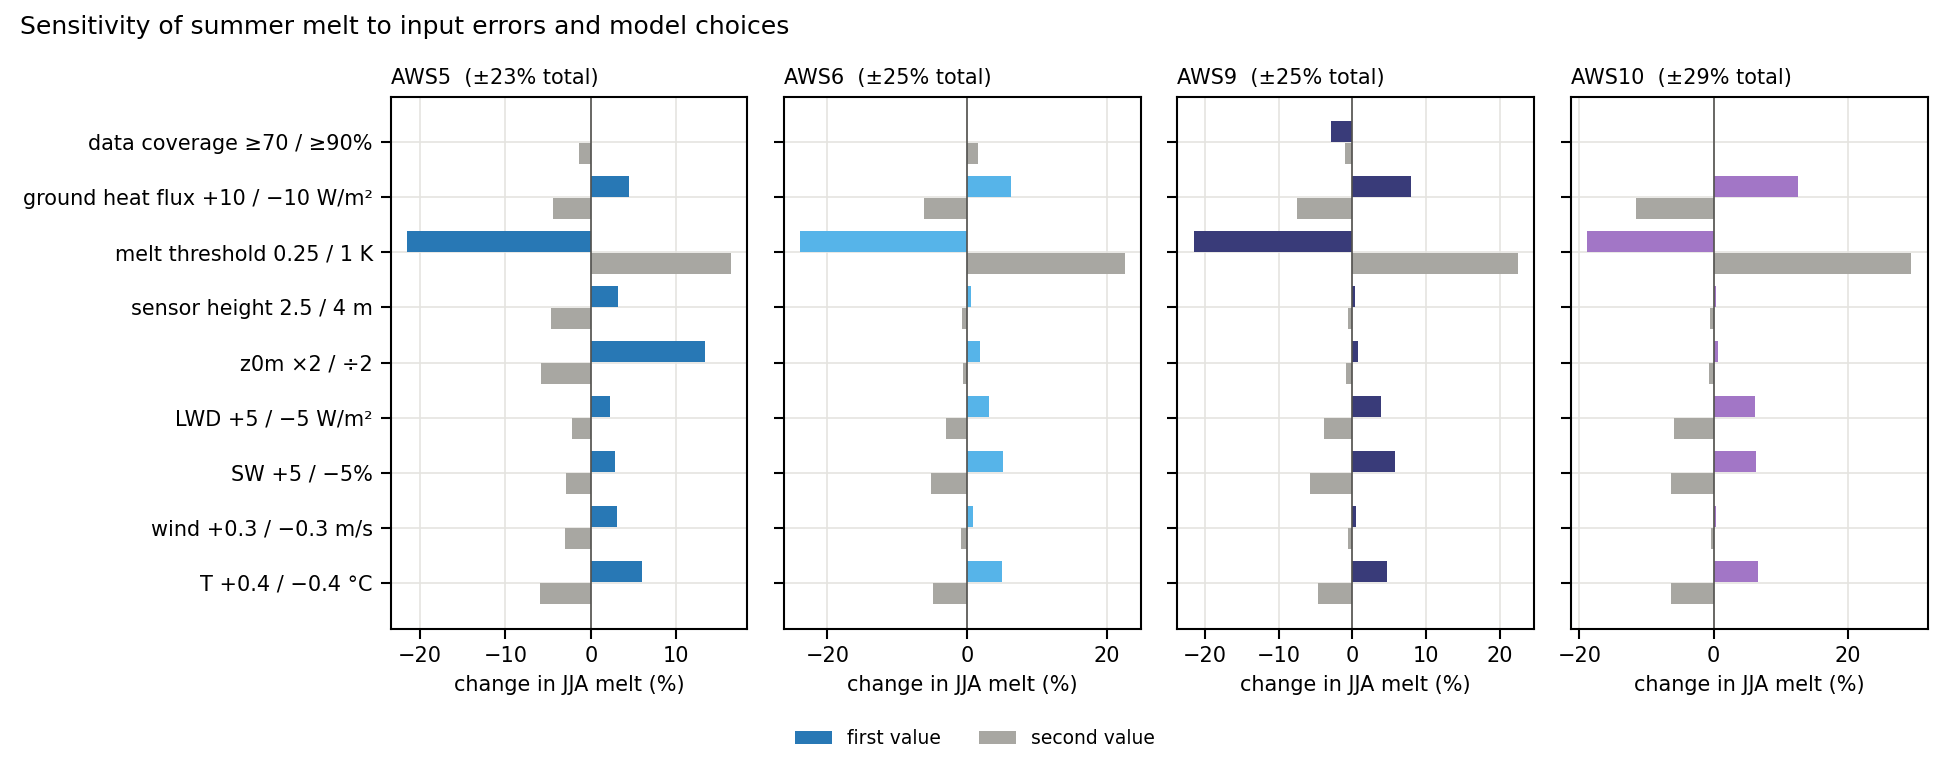
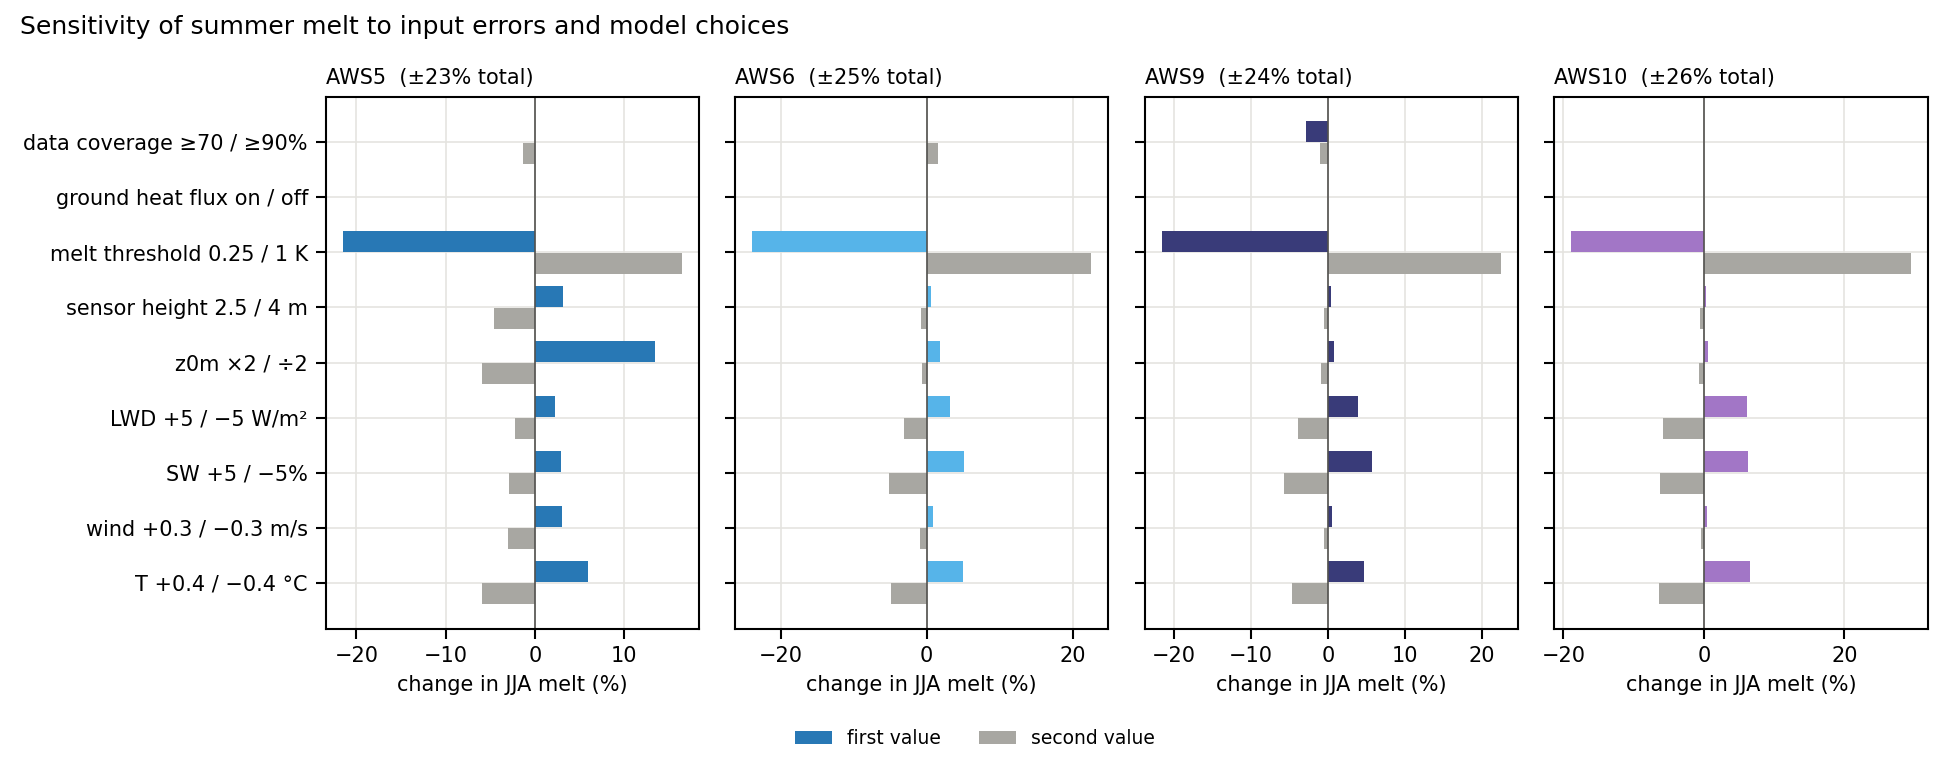
changes to uncertainty with the ground heat flux

diff --git a/code/uncertainty.py b/code/uncertainty.py
@@ -32,6 +32,7 @@ from scipy import stats
 
 import melt_comparison as mc
 import elevation_albedo as ea
+import surface_temperature as stm
 
 JJA = [6, 7, 8]
 JJA_HOURS = 92 * 24
@@ -46,7 +47,7 @@ SENSITIVITY = {
     "z0m ×2 / ÷2": "onzekerheid ruwheid (factor 2)",
     "meethoogte 2.5 / 4 m": "onbekende sensorhoogte type 0 (standaard 3 m)",
     "smeltdrempel 0.25 / 1 K": "drempel oppervlaktetemperatuur (standaard 0.5 K)",
-    "G +10 / −10 W/m²": "warmtestroom in het ijs, standaard 0 (aanname; orde van grootte uit paper fig. 4)",
+    "G on / off": "ground heat flux: full model (coupled subsurface model) vs. G = 0",
     "datadekking 70 / 90%": "minimale dekking voor een zomer om mee te tellen (standaard 80%)",
 }
 
@@ -102,8 +103,8 @@ def jja_melt(ts):
     return g.mean() * JJA_HOURS, cov
 
 
-def run(station, df, z0_factor=1.0, z_default=None, t_tol=None, g_flux=None):
-    orig = (mc.z0m_series, mc.Z_DEFAULT, mc.T_MELT_TOL, mc.GROUND_FLUX)
+def run(station, df, z0_factor=1.0, z_default=None, t_tol=None):
+    orig = (mc.z0m_series, mc.Z_DEFAULT, mc.T_MELT_TOL)
     try:
         if z0_factor != 1.0:
             mc.z0m_series = lambda st, idx: orig[0](st, idx) * z0_factor
@@ -111,11 +112,25 @@ def run(station, df, z0_factor=1.0, z_default=None, t_tol=None, g_flux=None):
             mc.Z_DEFAULT = z_default
         if t_tol is not None:
             mc.T_MELT_TOL = t_tol
-        if g_flux is not None:
-            mc.GROUND_FLUX = g_flux
         return jja_melt(mc.melt_aws(station, df))[0]
     finally:
-        mc.z0m_series, mc.Z_DEFAULT, mc.T_MELT_TOL, mc.GROUND_FLUX = orig
+        mc.z0m_series, mc.Z_DEFAULT, mc.T_MELT_TOL = orig
+
+
+def run_coupled(station, df, ground=True):
+    """JJA-smelt met het gekoppelde Ts/G-model (ook als de rest met de drempelmethode draait).
+
+    Met ground=False wordt het ondergrondmodel niet gekoppeld, dus G = 0.
+    """
+    orig = (mc.MELT_METHOD, stm.N_G_ITER)
+    try:
+        mc.MELT_METHOD = "seb_ts"
+        if not ground:
+            stm.N_G_ITER = 0
+        # volledig model uit de cache; zonder G met df meegeven, anders komt de cache terug
+        return jja_melt(mc.melt_aws(station, None if ground else df))[0]
+    finally:
+        mc.MELT_METHOD, stm.N_G_ITER = orig
 
 
 def sensitivity(station):
@@ -139,8 +154,10 @@ def sensitivity(station):
         "z0m ×2 / ÷2": (run(station, df, z0_factor=2.0), run(station, df, z0_factor=0.5)),
         "meethoogte 2.5 / 4 m": (run(station, df, z_default=2.5), run(station, df, z_default=4.0)),
         "smeltdrempel 0.25 / 1 K": (run(station, df, t_tol=0.25), run(station, df, t_tol=1.0)),
-        "G +10 / −10 W/m²": (run(station, df, g_flux=10.0), run(station, df, g_flux=-10.0)),
     }
+    # G: verschil tussen gekoppeld model met en zonder G, opgeteld bij de basis
+    full = run_coupled(station, df)
+    runs["G on / off"] = (base_all, base_all + run_coupled(station, df, ground=False) - full)
     rows = []
     for name, (up, down) in runs.items():
         up, down = up.reindex(years), down.reindex(years)
@@ -299,7 +316,7 @@ def plot_sensitivity(sens, summary, out):
         ax.axvline(0, color="#52514e", lw=0.8)
         ax.set_yticks(y, ["T +0.4 / −0.4 °C", "wind +0.3 / −0.3 m/s", "SW +5 / −5%", "LWD +5 / −5 W/m²",
                           "z0m ×2 / ÷2", "sensor height 2.5 / 4 m", "melt threshold 0.25 / 1 K",
-                          "ground heat flux +10 / −10 W/m²", "data coverage ≥70 / ≥90%"])
+                          "ground heat flux on / off", "data coverage ≥70 / ≥90%"])
         ax.invert_yaxis()
         ax.set_title(f"{st}  (±{summary.loc[st, 'foutmarge_pct']:.0f}% total)", loc="left", fontsize=10)
         ax.set_xlabel("change in JJA melt (%)")
@@ -307,7 +324,6 @@ def plot_sensitivity(sens, summary, out):
         ax.grid(axis="x", color="#e5e4e0", lw=0.8)
     handles, labels = axes[0].get_legend_handles_labels()
     fig.legend(handles, labels, frameon=False, fontsize=9, ncol=2, loc="lower center")
-    fig.suptitle("Sensitivity of summer melt to input errors and model choices", x=0.01, ha="left")
     fig.tight_layout(rect=(0, 0.06, 1, 1))
     fig.savefig(out, dpi=150)
     plt.close(fig)
